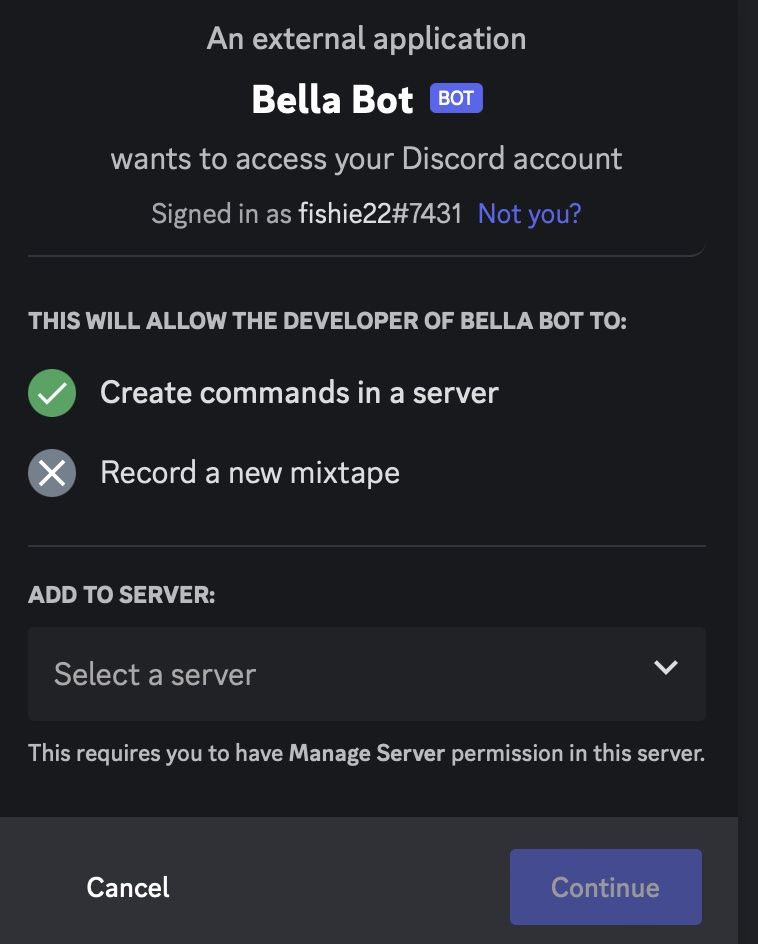
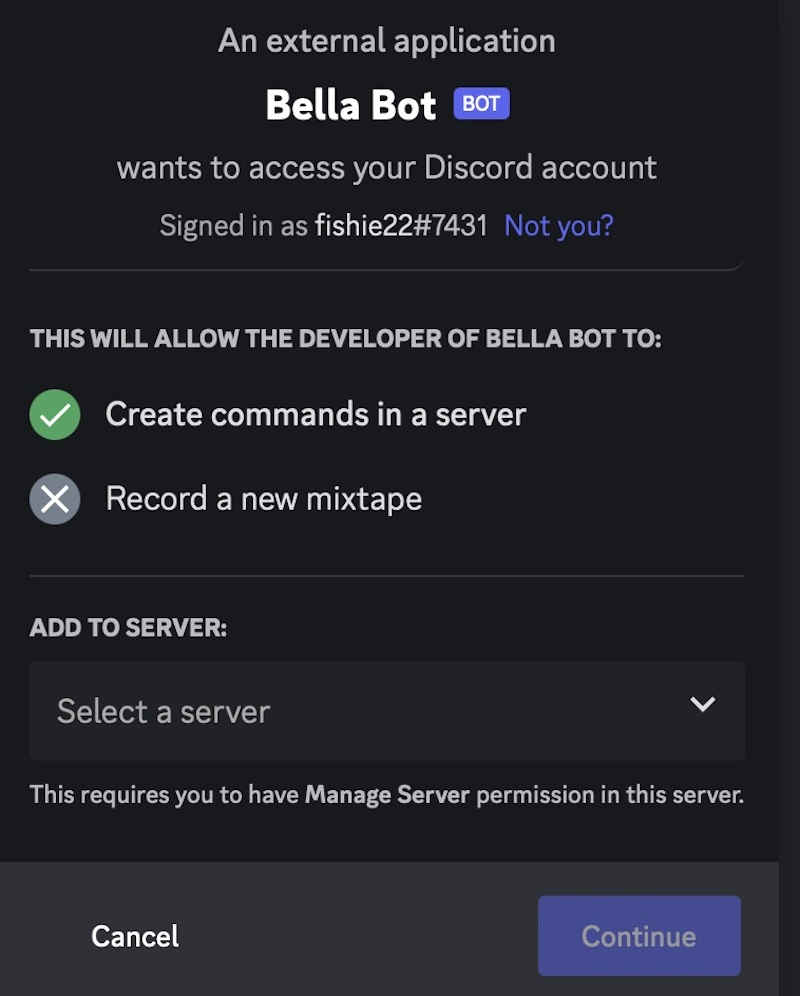
editing readme

diff --git a/README.md b/README.md
@@ -30,7 +30,7 @@
 
 <img class="img" src="assets/bellabot.jpg" alt="Adding application" style=" display: block;
     margin-left: auto;
-    margin-right: auto;" width="500" height="500">
+    margin-right: auto;" width="1000" height="379">
 
 3.  Click on Bot and add bot to the Application
 4.  Click on Oauth
@@ -47,7 +47,7 @@
 
 <img class="img" src="assets/enablebot.jpg" alt="Adding bot to a serve" style=" display: block;
     margin-left: auto;
-    margin-right: auto;" width="500" height="500">
+    margin-right: auto;" width="800" height="996">
 
 ## Running the bot
 
@@ -68,16 +68,16 @@
 - `message` has been changed to `interaction`
 
 - I am using some built-in classes:
-- SlashCommandBuilder to add command modules
-- EmbedBuilder to add embeds (random.js)
-- AttachmentBuilder to add attachments (random.js)
+- `SlashCommandBuilder` to add command modules
+- `EmbedBuilder` to add embeds (random.js)
+- `AttachmentBuilder` to add attachments (random.js)
 
 ## Adding slash commands using the SlashCommandBuilder
 
 - The name of the file is the name of the slash command, for example for `choochoo.js`
-`const { SlashCommandBuilder } = require('discord.js');`
-`const replies = ["🚂🌈💖", "Choo choo!", "Ding! 🛎", "Never forget this dot!"];`
-`module.exports = {
+- `const { SlashCommandBuilder } = require('discord.js');`  
+- `const replies = ["🚂🌈💖", "Choo choo!", "Ding! 🛎", "Never forget this dot!"];`  
+- `module.exports = {
 	data: new SlashCommandBuilder()
 		.setName('choochoo')
 		.setDescription('Replies with emogies!'),
